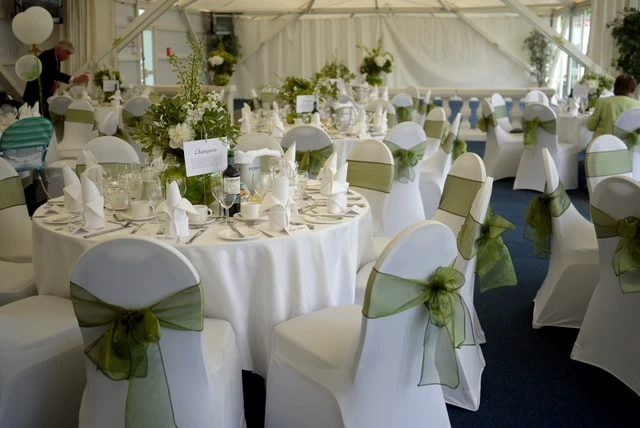
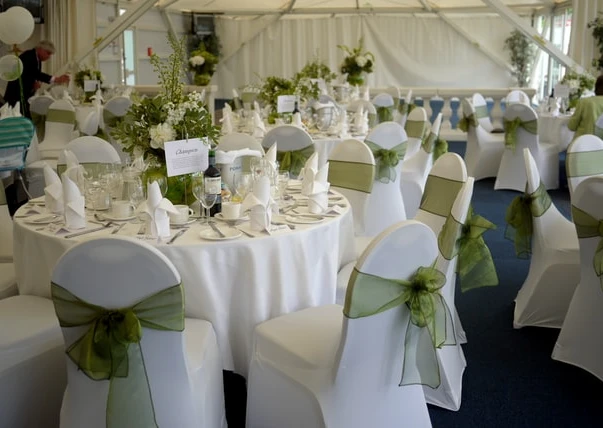
i

diff --git a/templesuites/css/small.css b/templesuites/css/small.css
@@ -517,6 +517,8 @@ display: none;
   .recep-pic img {
       width: 100%;
       max-width: 400px;
+      height: auto;
+      object-fit: contain;
   }
 
   .text-text {
